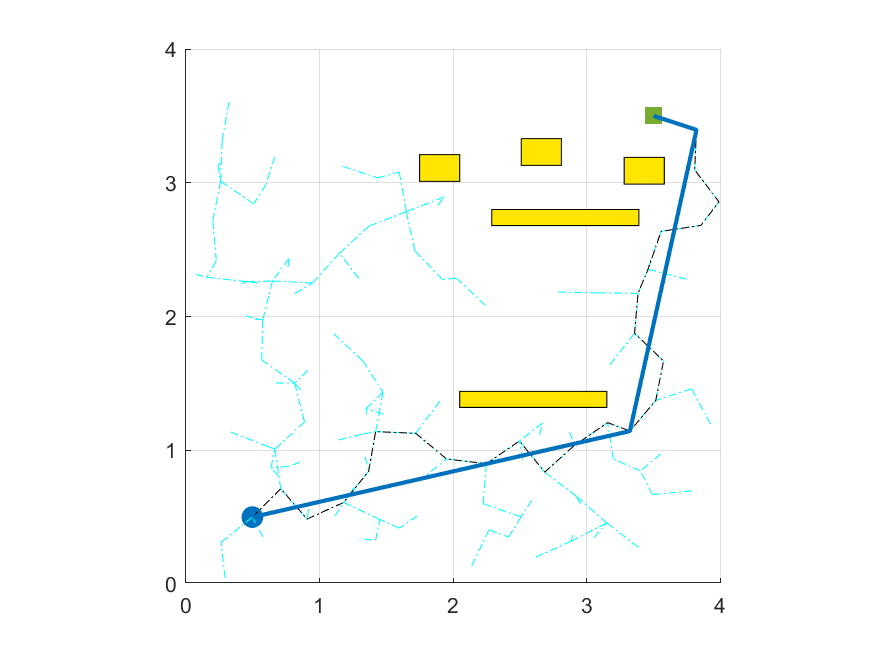
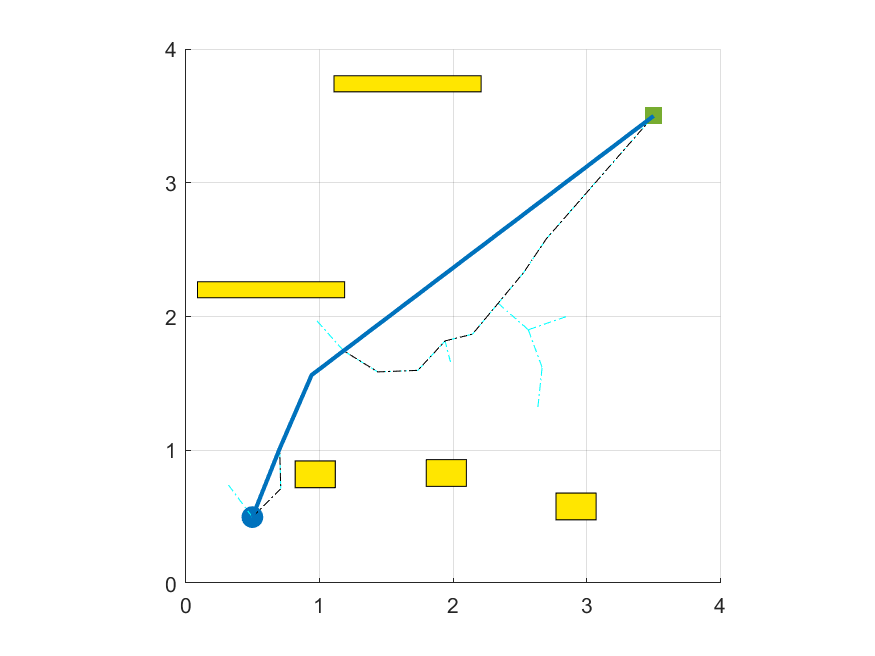
add loading pre-defined map

diff --git a/RRTGraph.m b/RRTGraph.m
@@ -5,7 +5,7 @@ classdef RRTGraph
         % Map
         start
         goal
-        mapMatrix
+        mapMask
         mapW
         mapH
         
@@ -22,10 +22,10 @@ classdef RRTGraph
     end
     
     methods
-        function obj = RRTGraph(start, goal, mapMatrix, mapSize)
+        function obj = RRTGraph(start, goal, mapMask, mapSize)
             obj.start = start;
             obj.goal = goal;
-            obj.mapMatrix = mapMatrix;
+            obj.mapMask = mapMask;
             obj.mapW = mapSize(1);
             obj.mapH = mapSize(2);
             obj.treeCoors = start;
@@ -77,13 +77,13 @@ classdef RRTGraph
             % flag = 1 when the node is valid (NOT collide with any obstacles)
             n = getNumNodes(obj);
             lastNode = obj.treeCoors(n, :);
-            checkMat = zeros(size(obj.mapMatrix));
+            checkMat = zeros(size(obj.mapMask));
             try
             checkMat(ceil(lastNode(2)*100), ceil(lastNode(1)*100)) = 1;
             catch
                 disp(lastNode);
             end
-            flag = ~max(checkMat .* obj.mapMatrix, [], 'all');
+            flag = ~max(checkMat .* obj.mapMask, [], 'all');
             
             if ~flag
                 obj = removeNode(obj, n);
@@ -91,11 +91,11 @@ classdef RRTGraph
         end
         
         function boolVal = isCrossObstacles(obj, node1, node2)
-            checkMat = zeros(size(obj.mapMatrix));
+            checkMat = zeros(size(obj.mapMask));
             checkMat = insertShape(checkMat, 'Line', round([node1*100 node2*100]), ...
                 'LineWidth', 2, 'Color', 'white');
             checkMat = checkMat(:, :, 1);
-            boolVal = max(checkMat .* obj.mapMatrix, [], 'all');
+            boolVal = max(checkMat .* obj.mapMask, [], 'all');
         end
         
         function obj = connect(obj, n1, n2)
@@ -165,11 +165,11 @@ classdef RRTGraph
                 while secondIdx <= numPoints
                     p1 = pathCoors(firstIdx, :);
                     p2 = pathCoors(secondIdx, :);
-                    checkMat = zeros(size(obj.mapMatrix));
+                    checkMat = zeros(size(obj.mapMask));
                     checkMat = insertShape(checkMat, 'Line', round([p1*100 p2*100]), ...
                         'LineWidth', 2, 'Color', 'white');
                     checkMat = checkMat(:, :, 1);
-                    isCrossObstacles = max(checkMat .* obj.mapMatrix, [], 'all');
+                    isCrossObstacles = max(checkMat .* obj.mapMask, [], 'all');
                     if isCrossObstacles
                         secondIdx = secondIdx - 1;
                         firstIdx = secondIdx;

diff --git a/initMap.m b/initMap.m
@@ -1,4 +1,4 @@
-function [start, goal, mapSize, mapMatrix, obstacles] = initMap()
+function [start, goal, mapSize, mapMask, obstacles] = initMap()
 close all
 figure;
 axis equal
@@ -16,9 +16,9 @@ goal = [3.5, 3.5];
 obstacles = [];
 
 %  Create map matrix
-mapMatrix = zeros(mapSize(1)*100, mapSize(2)*100);
-mapMatrix(start(1)*100-10:start(1)*100+10, start(2)*100-10:start(2)*100+10) = 1;
-mapMatrix(goal(1)*100-10:goal(1)*100+10, goal(2)*100-10:goal(2)*100+10) = 1;
+mapMask = zeros(mapSize(1)*100, mapSize(2)*100);
+mapMask(start(1)*100-10:start(1)*100+10, start(2)*100-10:start(2)*100+10) = 1;
+mapMask(goal(1)*100-10:goal(1)*100+10, goal(2)*100-10:goal(2)*100+10) = 1;
 
 % Plot start and goal
 plot(start(1), start(2), 'o', 'MarkerFaceColor', [0 0.4470 0.7410], ...
@@ -40,12 +40,12 @@ for i=1:numObs
        upper_y = randi([5, mapSize(2)*100 - obsDim(2)*100]);
        lower_x = floor(upper_x+obsDim(1)*100);
        lower_y = floor(upper_y+obsDim(2)*100);
-       if max(mapMatrix(upper_y:lower_y, upper_x:lower_x), [], 'all') == 0
+       if max(mapMask(upper_y:lower_y, upper_x:lower_x), [], 'all') == 0
            padded_upper_x = max(1, upper_x - paddingObs);
            padded_upper_y = max(1, upper_y - paddingObs);
            padded_lower_x = min(mapSize(1)*100, lower_x + paddingObs);
            padded_lower_y = min(mapSize(2)*100, lower_y + paddingObs);
-           mapMatrix(padded_upper_y:padded_lower_y, padded_upper_x:padded_lower_x) = 1;
+           mapMask(padded_upper_y:padded_lower_y, padded_upper_x:padded_lower_x) = 1;
            rectangle('Position',[upper_x/100 upper_y/100 obsDim(1) obsDim(2)], 'FaceColor',[1 0.9 0]);
            obstacles = [obstacles; upper_x/100 upper_y/100 obsDim(1) obsDim(2)];
            break
@@ -53,7 +53,7 @@ for i=1:numObs
    end
 end
 
-mapMatrix(start(1)*100-10:start(1)*100+10, start(2)*100-10:start(2)*100+10) = 0;
-mapMatrix(goal(1)*100-10:goal(1)*100+10, goal(2)*100-10:goal(2)*100+10) = 0;
+mapMask(start(1)*100-10:start(1)*100+10, start(2)*100-10:start(2)*100+10) = 0;
+mapMask(goal(1)*100-10:goal(1)*100+10, goal(2)*100-10:goal(2)*100+10) = 0;
 end
 

diff --git a/loadMapFromFile.m b/loadMapFromFile.m
@@ -1,0 +1,29 @@
+function [start, goal, mapSize, mapMask, obstacles] = loadMapFromFile(filename)
+load(filename);
+
+close all
+figure;
+axis equal
+grid on
+hold on
+
+xlim([0 4]);
+ylim([0 4]);
+xticks(0:1:4);
+yticks(0:1:4);
+
+% Plot start and goal
+plot(start(1), start(2), 'o', 'MarkerFaceColor', [0 0.4470 0.7410], ...
+                'MarkerSize', 10, 'Color', [0 0.4470 0.7410]);
+plot(goal(1), goal(2), 's', 'MarkerFaceColor', [0.4660 0.6740 0.1880], ...
+                'MarkerSize', 10, 'Color', [0.4660 0.6740 0.1880]);
+
+% Obstacles
+numObs = size(obstacles, 1);
+for i=1:numObs
+    rectangle('Position', [obstacles(i, 1) obstacles(i, 2) obstacles(i, 3) obstacles(i, 4)], ...
+        'FaceColor',[1 0.9 0]);
+end
+
+end
+

diff --git a/testRRT.m b/testRRT.m
@@ -1,8 +1,8 @@
 clear
 close all
 
-[start, goal, mapSize, mapMatrix] = initMap();
-rrt = RRTGraph(start, goal, mapMatrix, mapSize);
+[start, goal, mapSize, mapMask, obstacles] = initMap();
+rrt = RRTGraph(start, goal, mapMask, mapSize);
 
 biasIter = 3;
 iter = 0;
@@ -33,3 +33,5 @@ plot(pathCoors(:, 1), pathCoors(:, 2), 'k-.');
 optimalPathCoors = rrt.optimizePath(pathCoors);
 plot(optimalPathCoors(:, 1), optimalPathCoors(:, 2), ...
     'LineWidth', 2, 'Color', [0 0.4470 0.7410]);
+
+save('variables/mapComponents.mat', 'start', 'goal', 'mapSize', 'mapMask', 'obstacles');

diff --git a/main.m b/main.m
@@ -2,11 +2,11 @@ clear
 % All dimensions are in meter
 % Rectangle are shaped by width and height
 
-%% Initialize environment
-[start, goal, mapSize, mapMatrix, obstacles] = initMap();
+%% Load environment
+[start, goal, mapSize, mapMask, obstacles] = loadMapFromFile('variables/mapComponents.mat');
 
 %% Path planning
-rrt = RRTGraph(start, goal, mapMatrix, mapSize);
+rrt = RRTGraph(start, goal, mapMask, mapSize);
 
 biasIter = 4;
 iter = 0;
